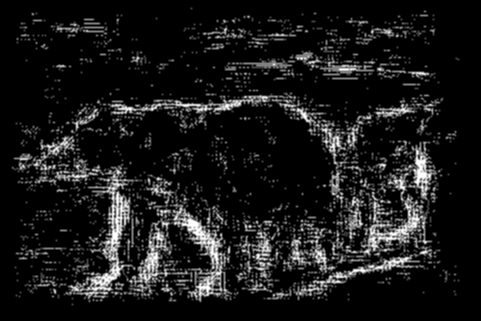
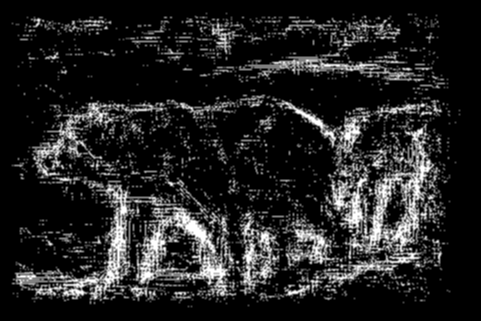
minor changes

diff --git a/detect.h b/detect.h
@@ -218,7 +218,7 @@ cv::Mat detect2(RandomForest &tree, cv::Mat img_o){
             }
         }
     }
-    fin_edges = fin_edges > 7;
+    fin_edges = fin_edges > 6;
     cv::GaussianBlur(fin_edges, fin_edges, cv::Size(3,3), 0, 0);
     cv::normalize(fin_edges, fin_edges, 0, 255, cv::NORM_MINMAX);
     return fin_edges;
